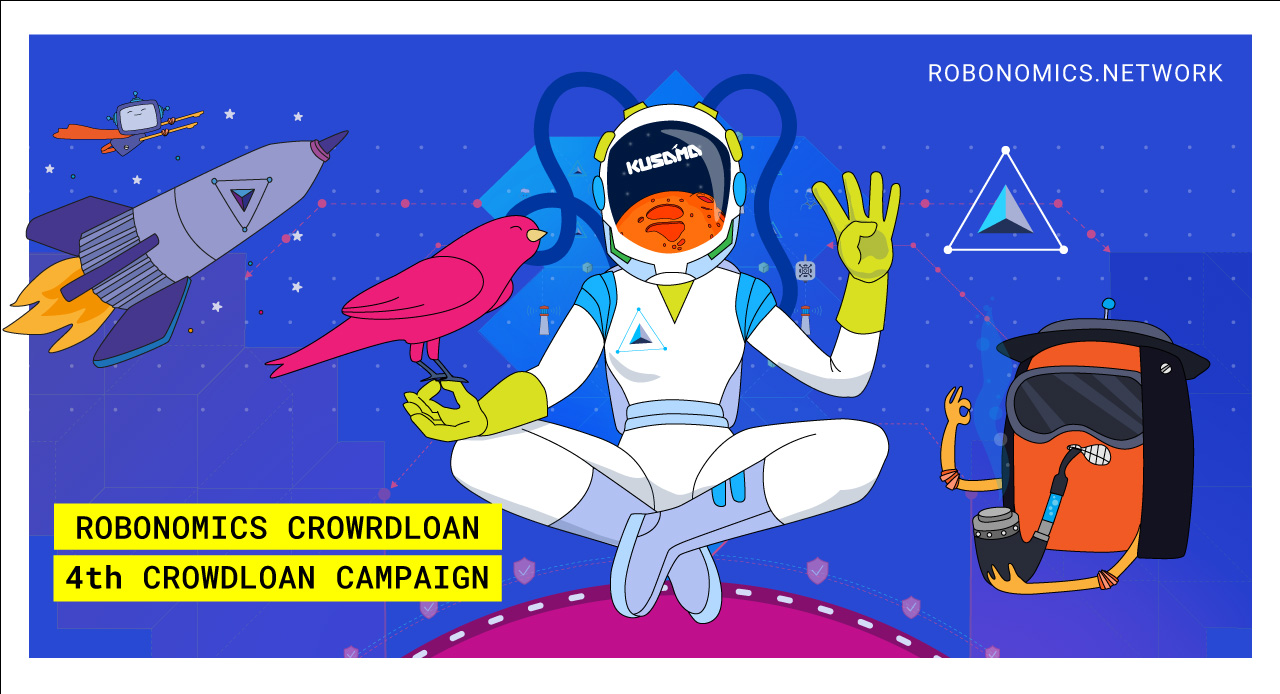
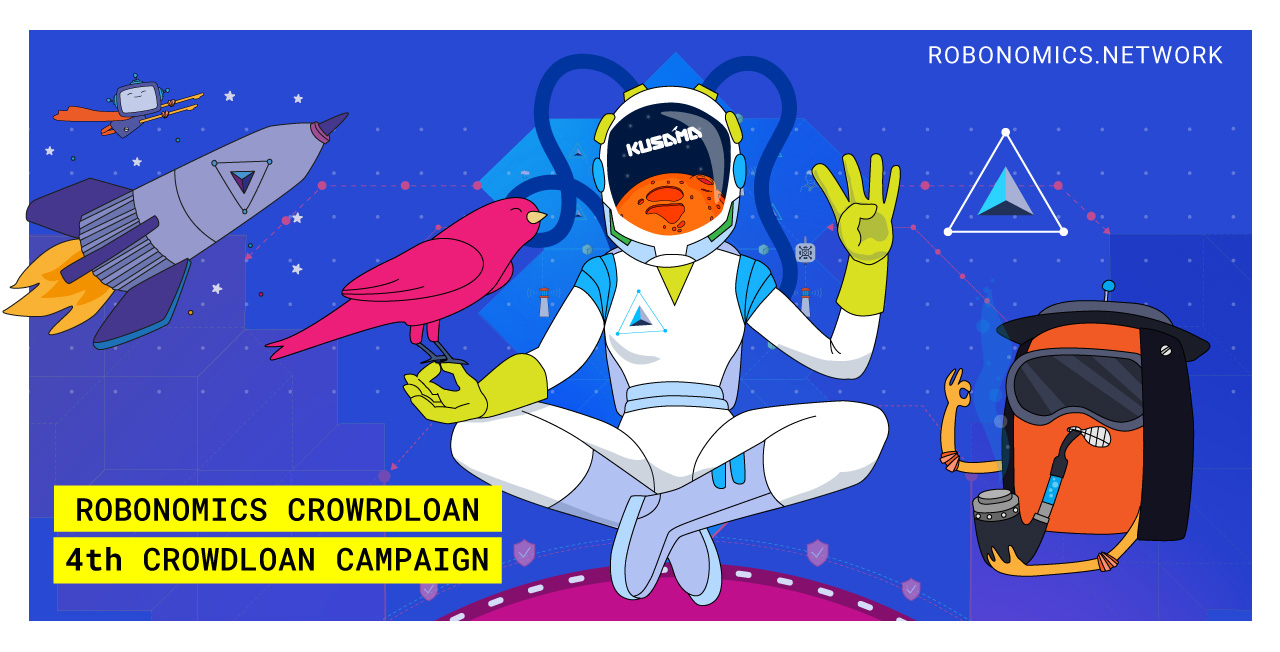
Replace cover image for crowdloan page

diff --git a/src/pages/kusama-slot.vue b/src/pages/kusama-slot.vue
@@ -5,7 +5,7 @@
       :pageTitle = "$ts('Crowdloan for Robonomics on Kusama')"
       :pageDescription = "$ts('Crowdloan Description')"
       pageImage = "/website_cover_crowdloan.jpg"
-      pageImageHeight = "694"
+      pageImageHeight = "652"
     />
 
     <div class="page">
